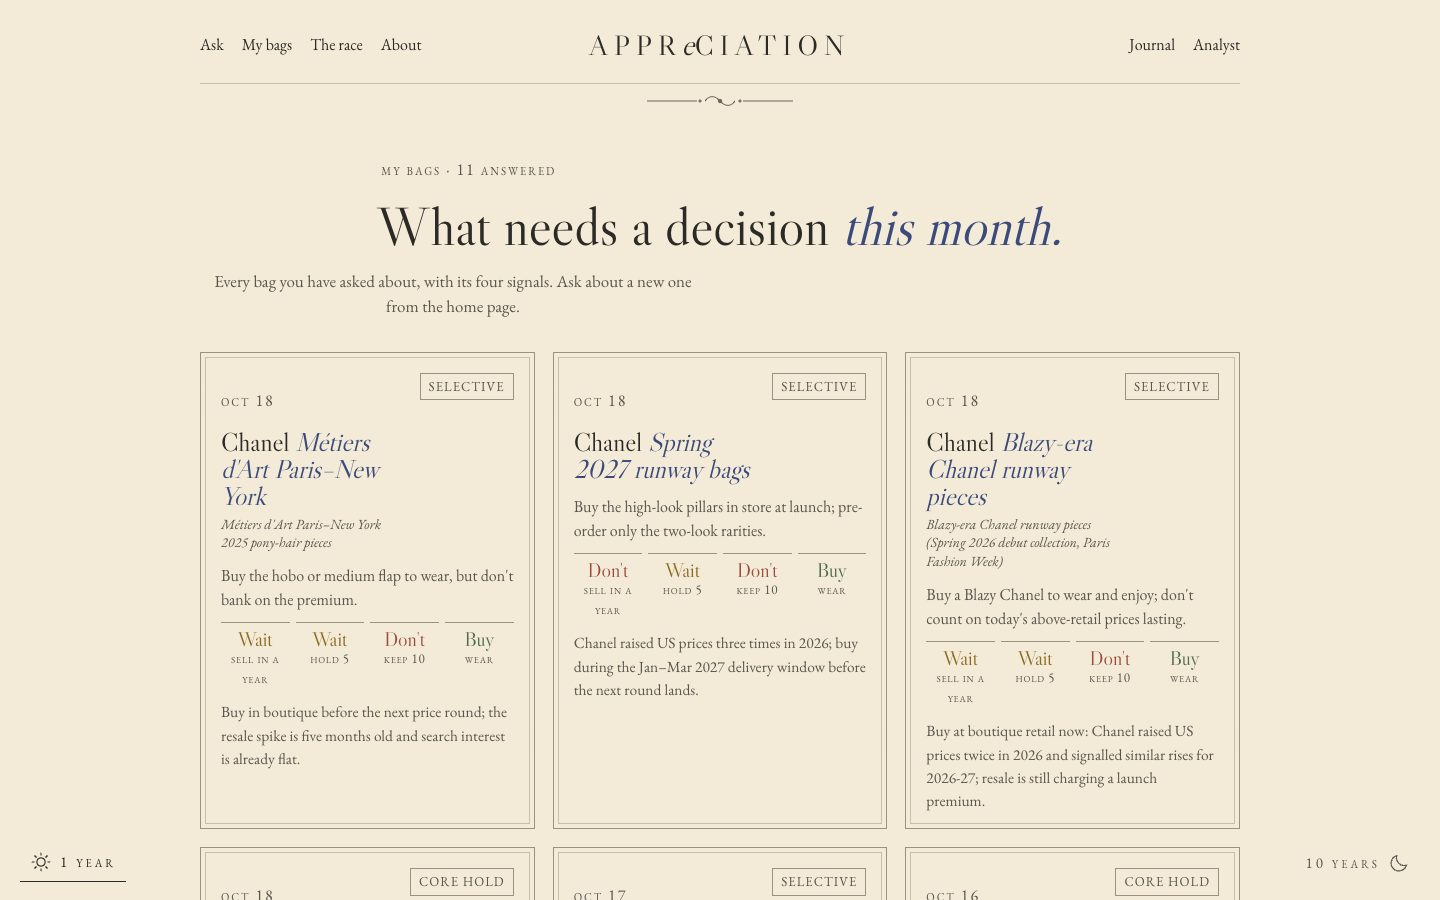
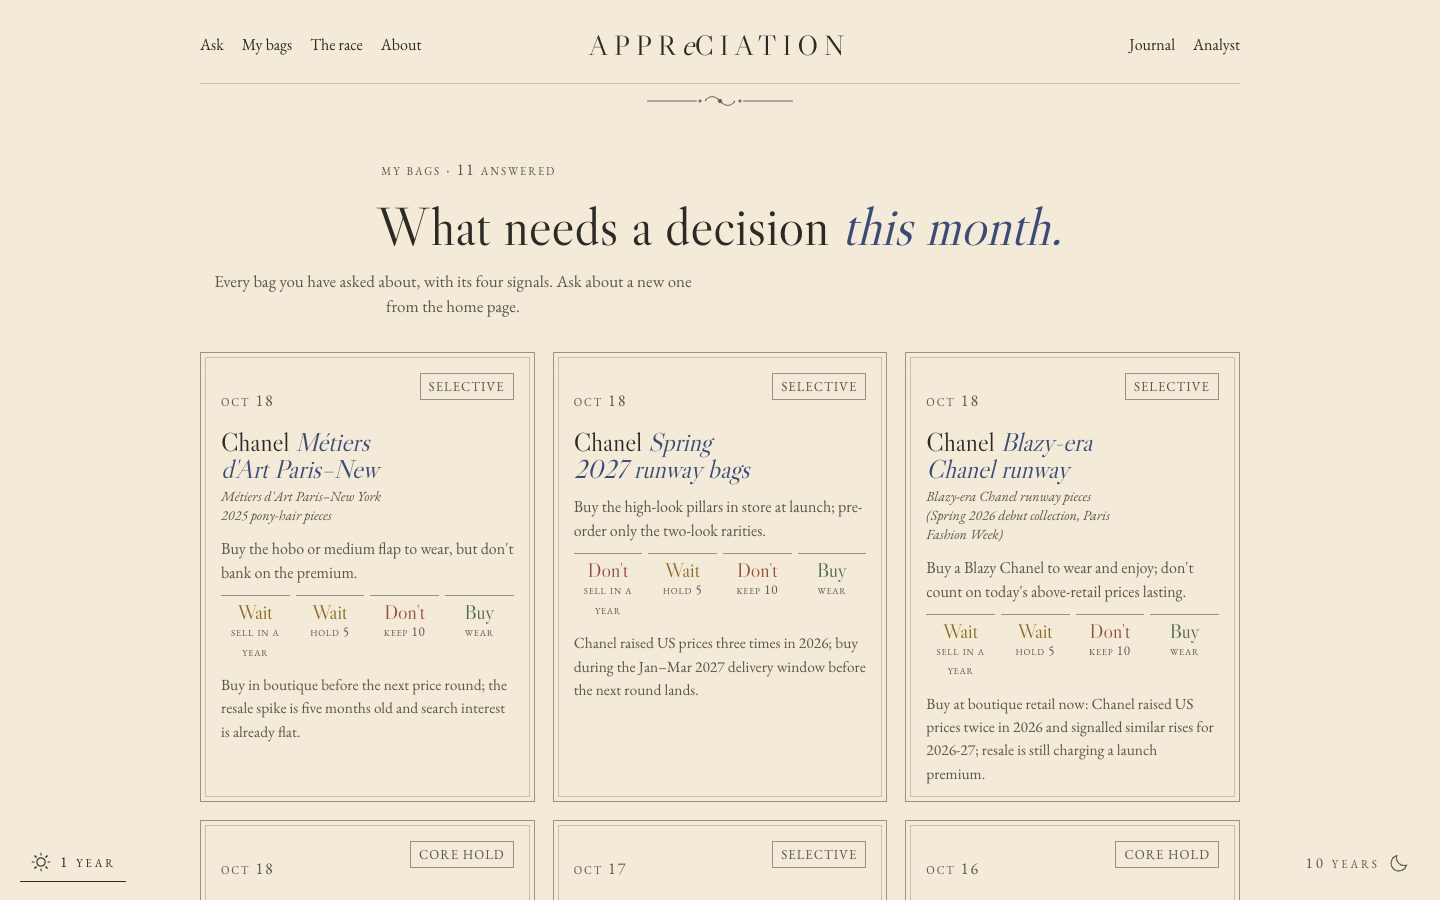
My bags: three-word titles for long family names on phones

diff --git a/src/app/bags/page.tsx b/src/app/bags/page.tsx
@@ -8,7 +8,8 @@ export const dynamic = "force-dynamic";
 function shortName(bag: string): string {
   const base = bag.replace(/\s*\(.*?\)\s*/g, " ").replace(/\s+/g, " ").trim();
   const words = base.split(" ");
-  return words.length > 4 ? words.slice(0, 4).join(" ") : base;
+  const cut = base.length > 24 ? 3 : 4;
+  return words.length > cut ? words.slice(0, cut).join(" ") : base;
 }
 
 const W: Record<string, string> = { yes: "Buy", no: "Don't", wait: "Wait" };

diff --git a/src/app/globals.css b/src/app/globals.css
@@ -266,3 +266,4 @@ pre.dossier{white-space:pre-wrap;font-size:13px;line-height:1.5;background:var(-
 @media (max-width:768px){.mast{grid-template-columns:1fr;row-gap:6px;text-align:center}.mast nav,.mast .right{justify-content:center}}
 
 .bag .spec{margin:4px 0 0;font-size:14px;color:var(--ink-2);font-style:italic;line-height:1.35}
+@media (max-width:600px){.bag h3{font-size:22px}}
